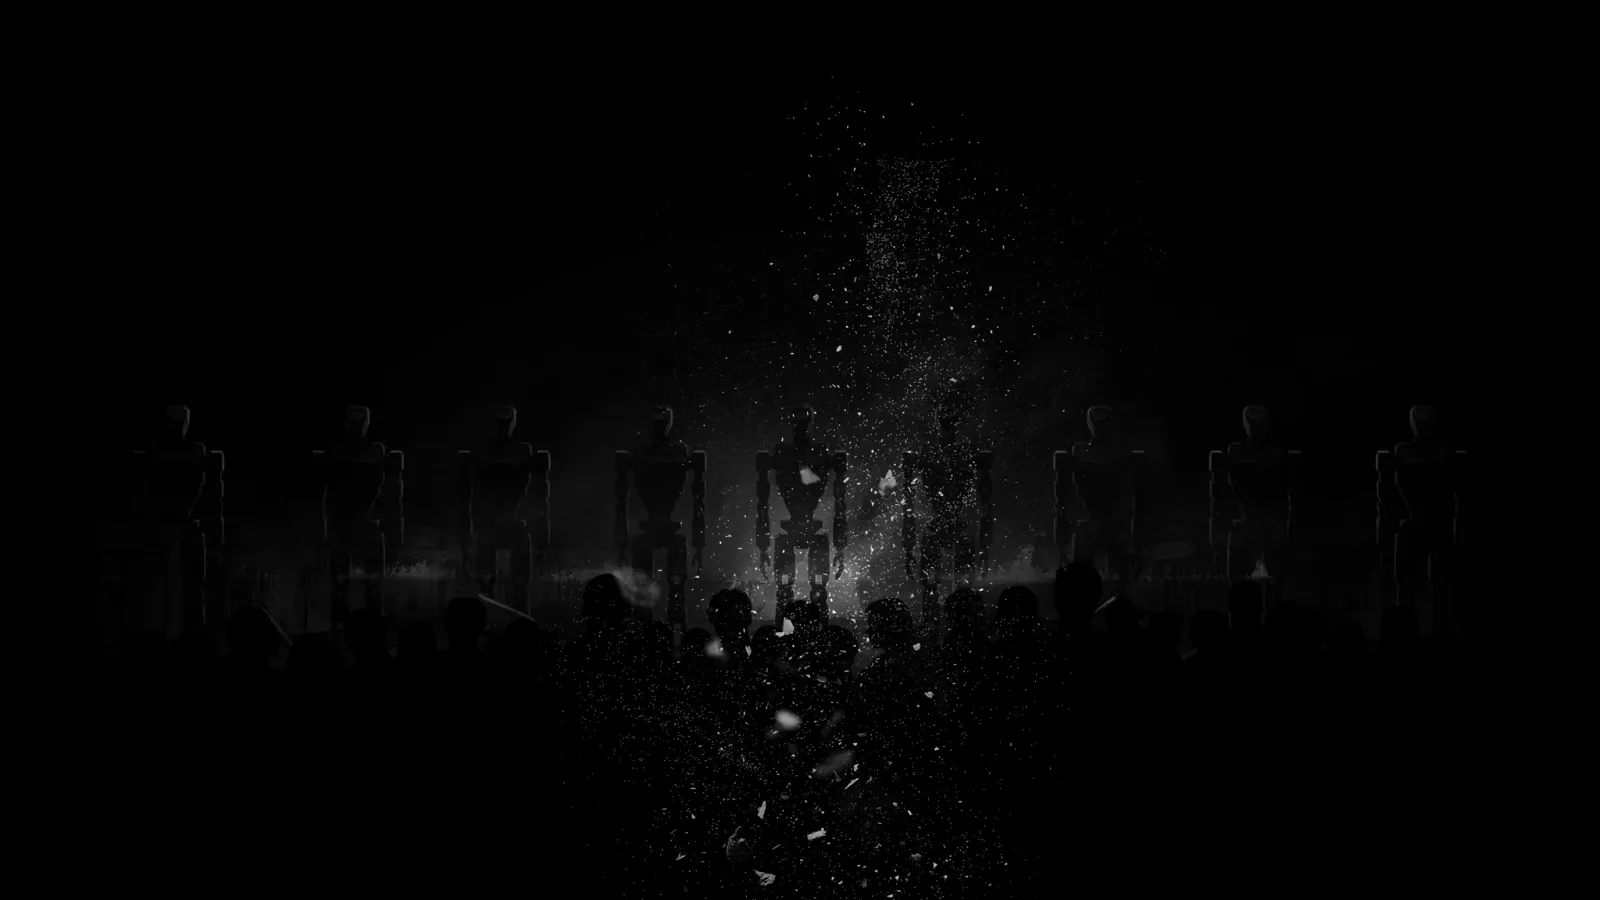
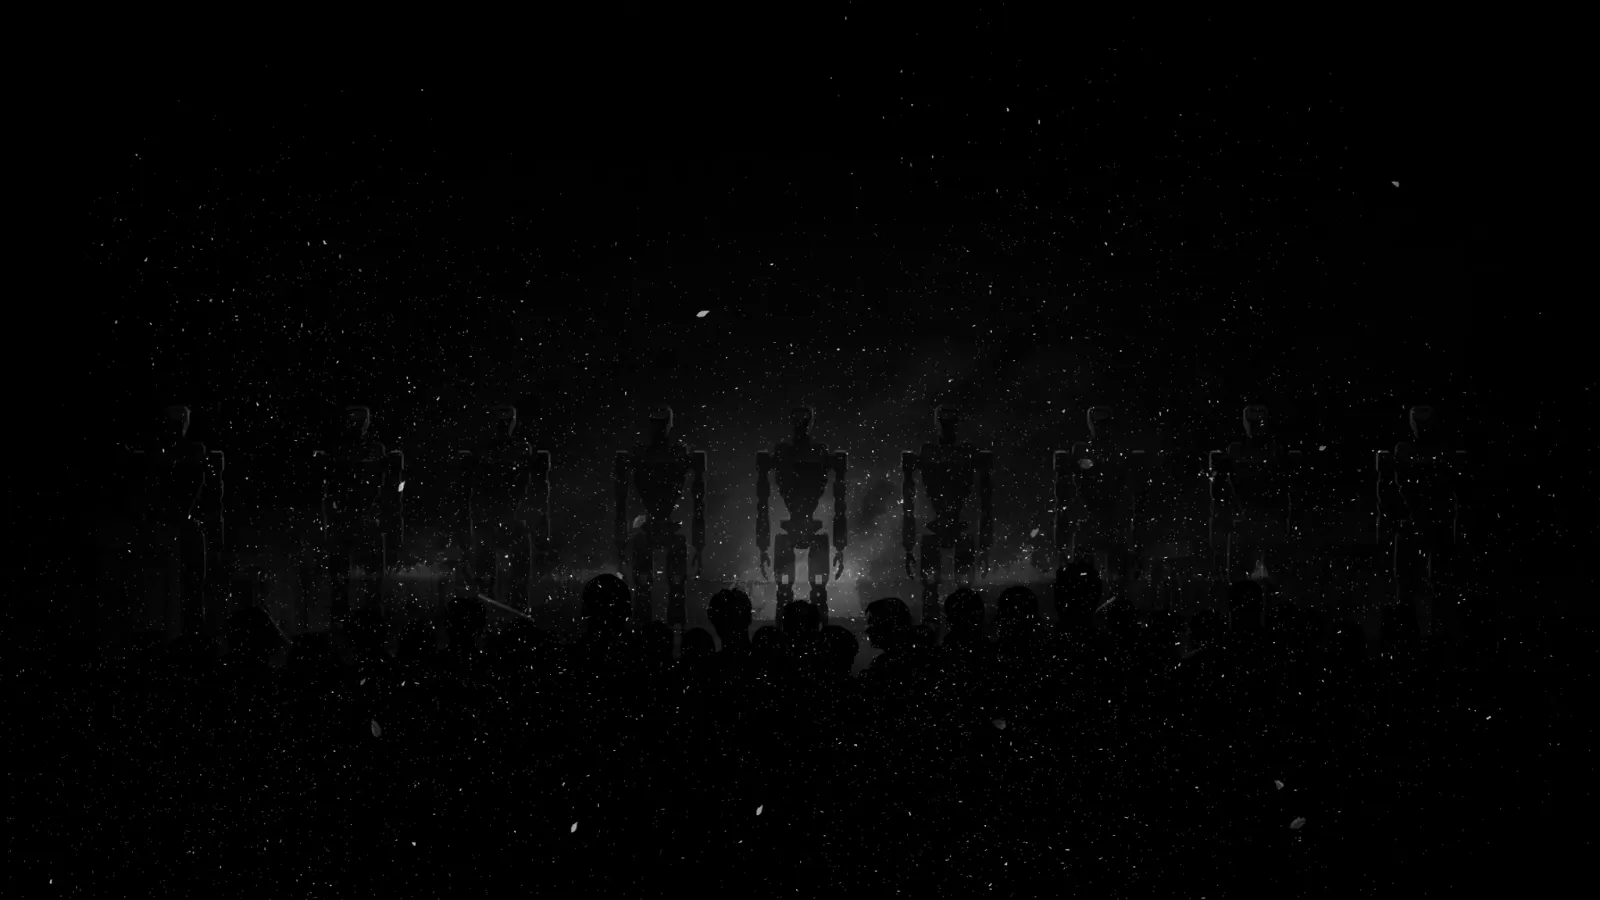
fix: box the two elements that were left free to place themselves
Of the twelve payloads, the only two elements without a bbox were the only two
that landed in the wrong place. Left free, the model centres: uprising's embers
came back as a plume up the middle of the frame, and city's rain gathered on the
left — which is the half sitting under the heading and the lede on /apparel, the
one place the brief says to keep clear.

Both now carry a wide bbox and say in the description what the box cannot: the
embers spread edge to edge and are never a column, the rain is confined to the
right and absent from the left third.

Also corrects the reasoning in the brief that produced the mistake. It argued a
scatter has no place to be, so a box would say nothing. The result disproves it,
and leaving the argument in place would have invited the same choice next time.

Completes kinship with its occluder and accent, so all twelve plates are real
artwork and every one is inside its luminance budget.

Contrast on /apparel holds: heading 12.27:1 dark and 10.80:1 light against a 3:1
floor, lede 7.94:1 and 5.06:1 against 4.5:1.

Claude-Session: https://claude.ai/code/session_011ro5UBZAnsg5fkutZFjWKC

diff --git a/docs/scene-art-prompts.md b/docs/scene-art-prompts.md
@@ -453,8 +453,9 @@ black, no midtones.
 > before export.
 
 **`04-embers`** — the accent. The only bright plate, and only because almost
-nothing is in it. No `bbox`: the scatter is the point, and a full-frame box
-would say nothing.
+nothing is in it. The first pass left both elements un-boxed on the reasoning
+that a scatter has no place to be; what came back was a plume up the centre of
+the frame. Left free, the model centres. The boxes below are wide on purpose.
 
 ```json
 {
@@ -471,12 +472,14 @@ would say nothing.
     "elements": [
       {
         "type": "obj",
-        "desc": "a scattering of small bright embers rising on a draught, irregularly spaced, denser towards the lower half and thinning out towards the top, each one a hard point a few pixels across, covering well under five percent of the frame in total",
+        "bbox": [80, 20, 940, 980],
+        "desc": "a scattering of small bright embers rising on a draught, spread evenly across the entire width of the frame from edge to edge, irregularly spaced, denser towards the lower half and thinning out towards the top, each one a hard point a few pixels across, never gathered into a plume or a column or a single rising stream, covering well under five percent of the frame in total",
         "color_palette": ["#8A8A8A", "#CCCCCC"]
       },
       {
         "type": "obj",
-        "desc": "a few larger flakes of ash tumbling among them, slightly dimmer than the embers, still small and sparse",
+        "bbox": [200, 60, 980, 940],
+        "desc": "a few larger flakes of ash tumbling among them, slightly dimmer than the embers, still small and sparse, also spread right across the frame rather than clustered",
         "color_palette": ["#3D3D3D", "#8A8A8A"]
       }
     ]
@@ -612,7 +615,8 @@ separates this scene from `uprising`, so the `bbox` spans the full frame height.
     "elements": [
       {
         "type": "obj",
-        "desc": "fine diagonal rain streaks falling steeply from upper left to lower right, thin and broken, widely spaced, covering only a small fraction of the frame",
+        "bbox": [0, 420, 1000, 1000],
+        "desc": "fine diagonal rain streaks falling steeply from upper left to lower right, thin and broken, widely spaced, confined to the right of the frame and absent from its left third, covering only a small fraction of the frame",
         "color_palette": ["#3D3D3D", "#8A8A8A"]
       },
       {
